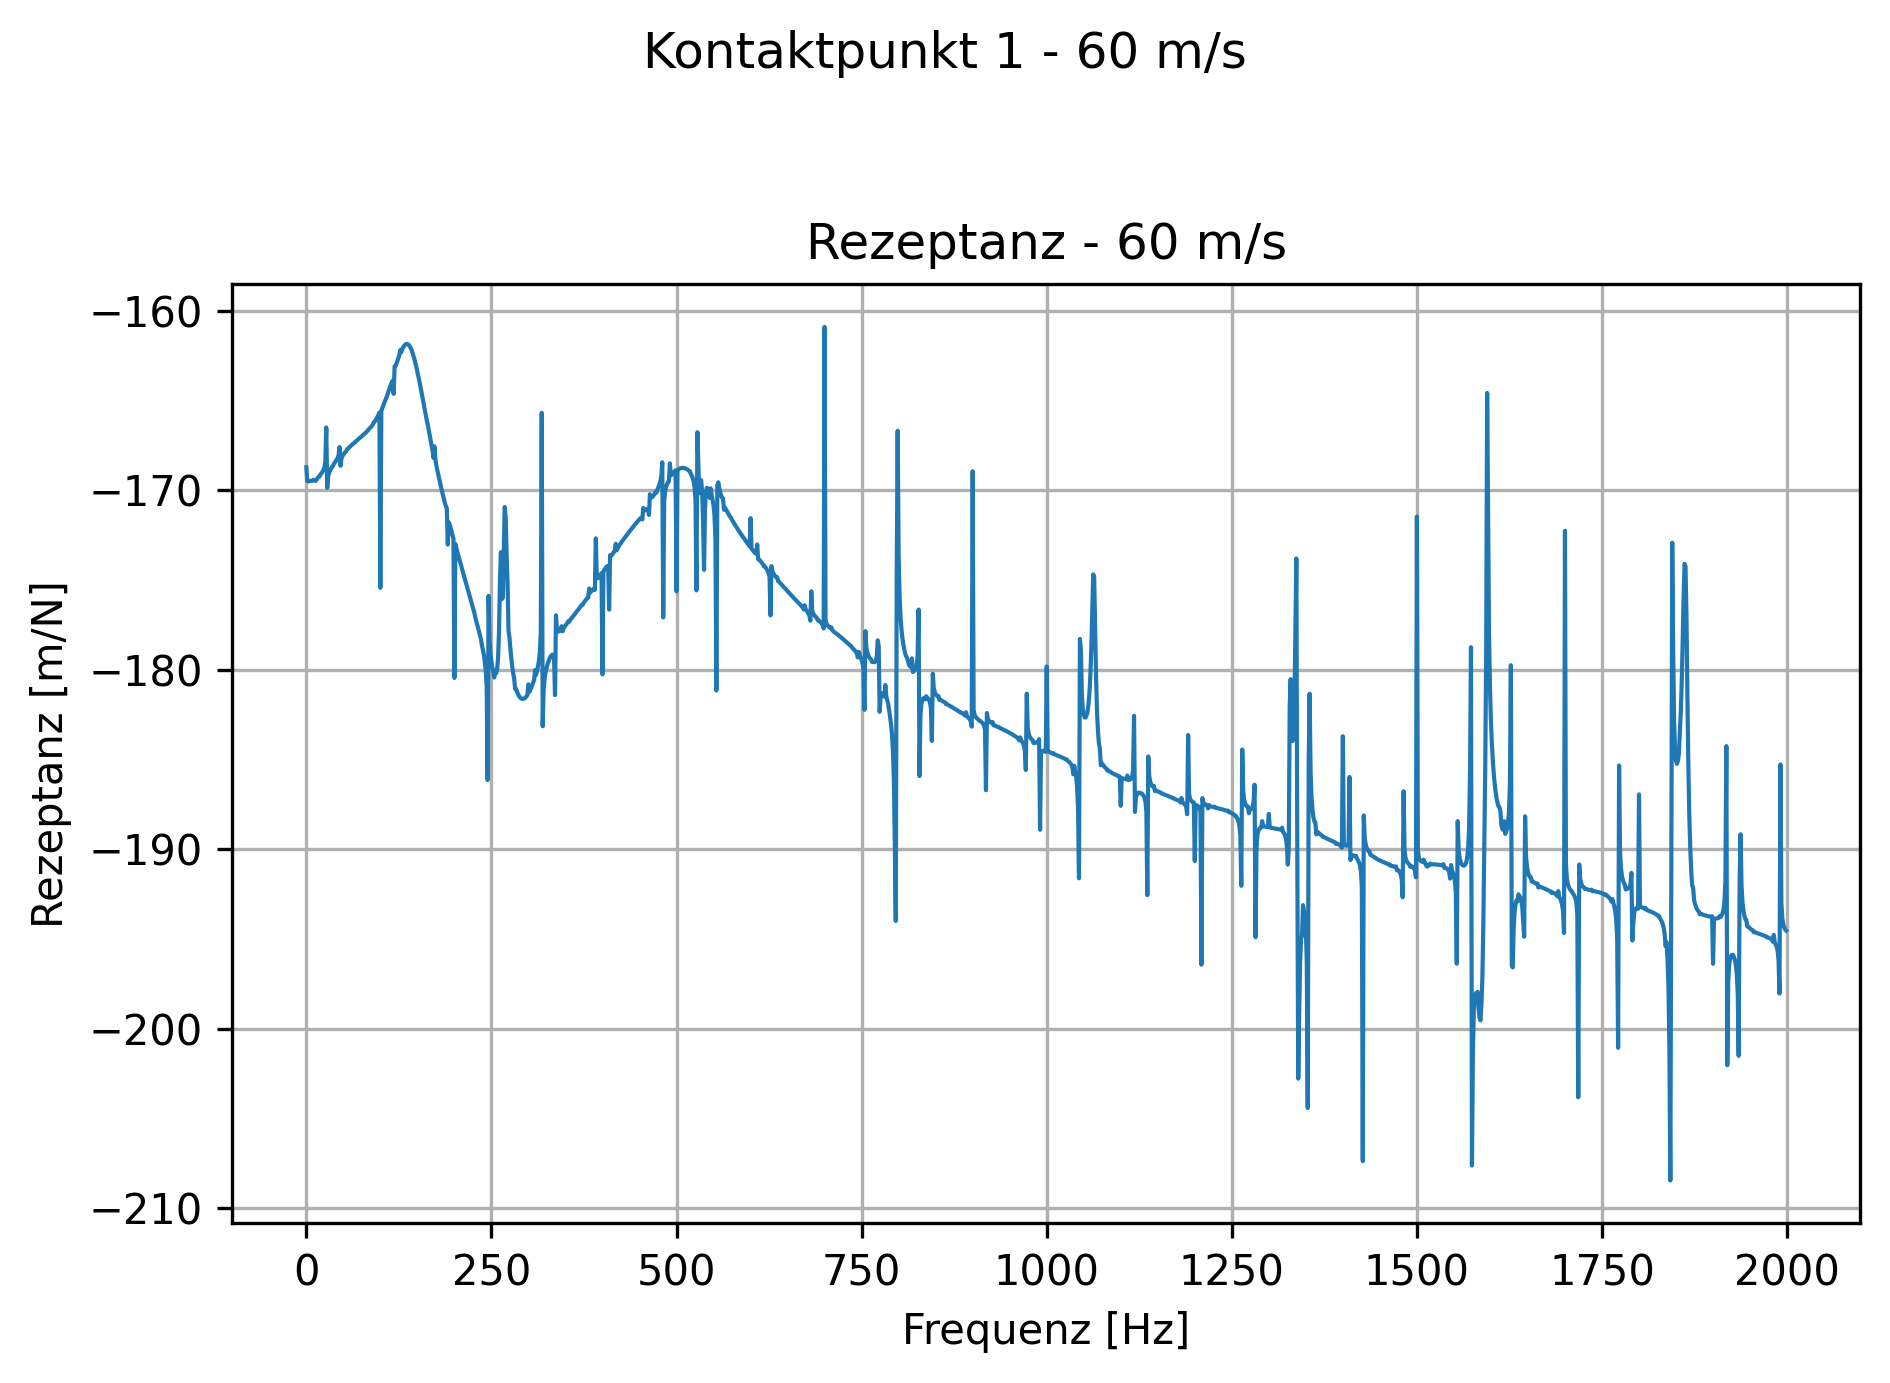
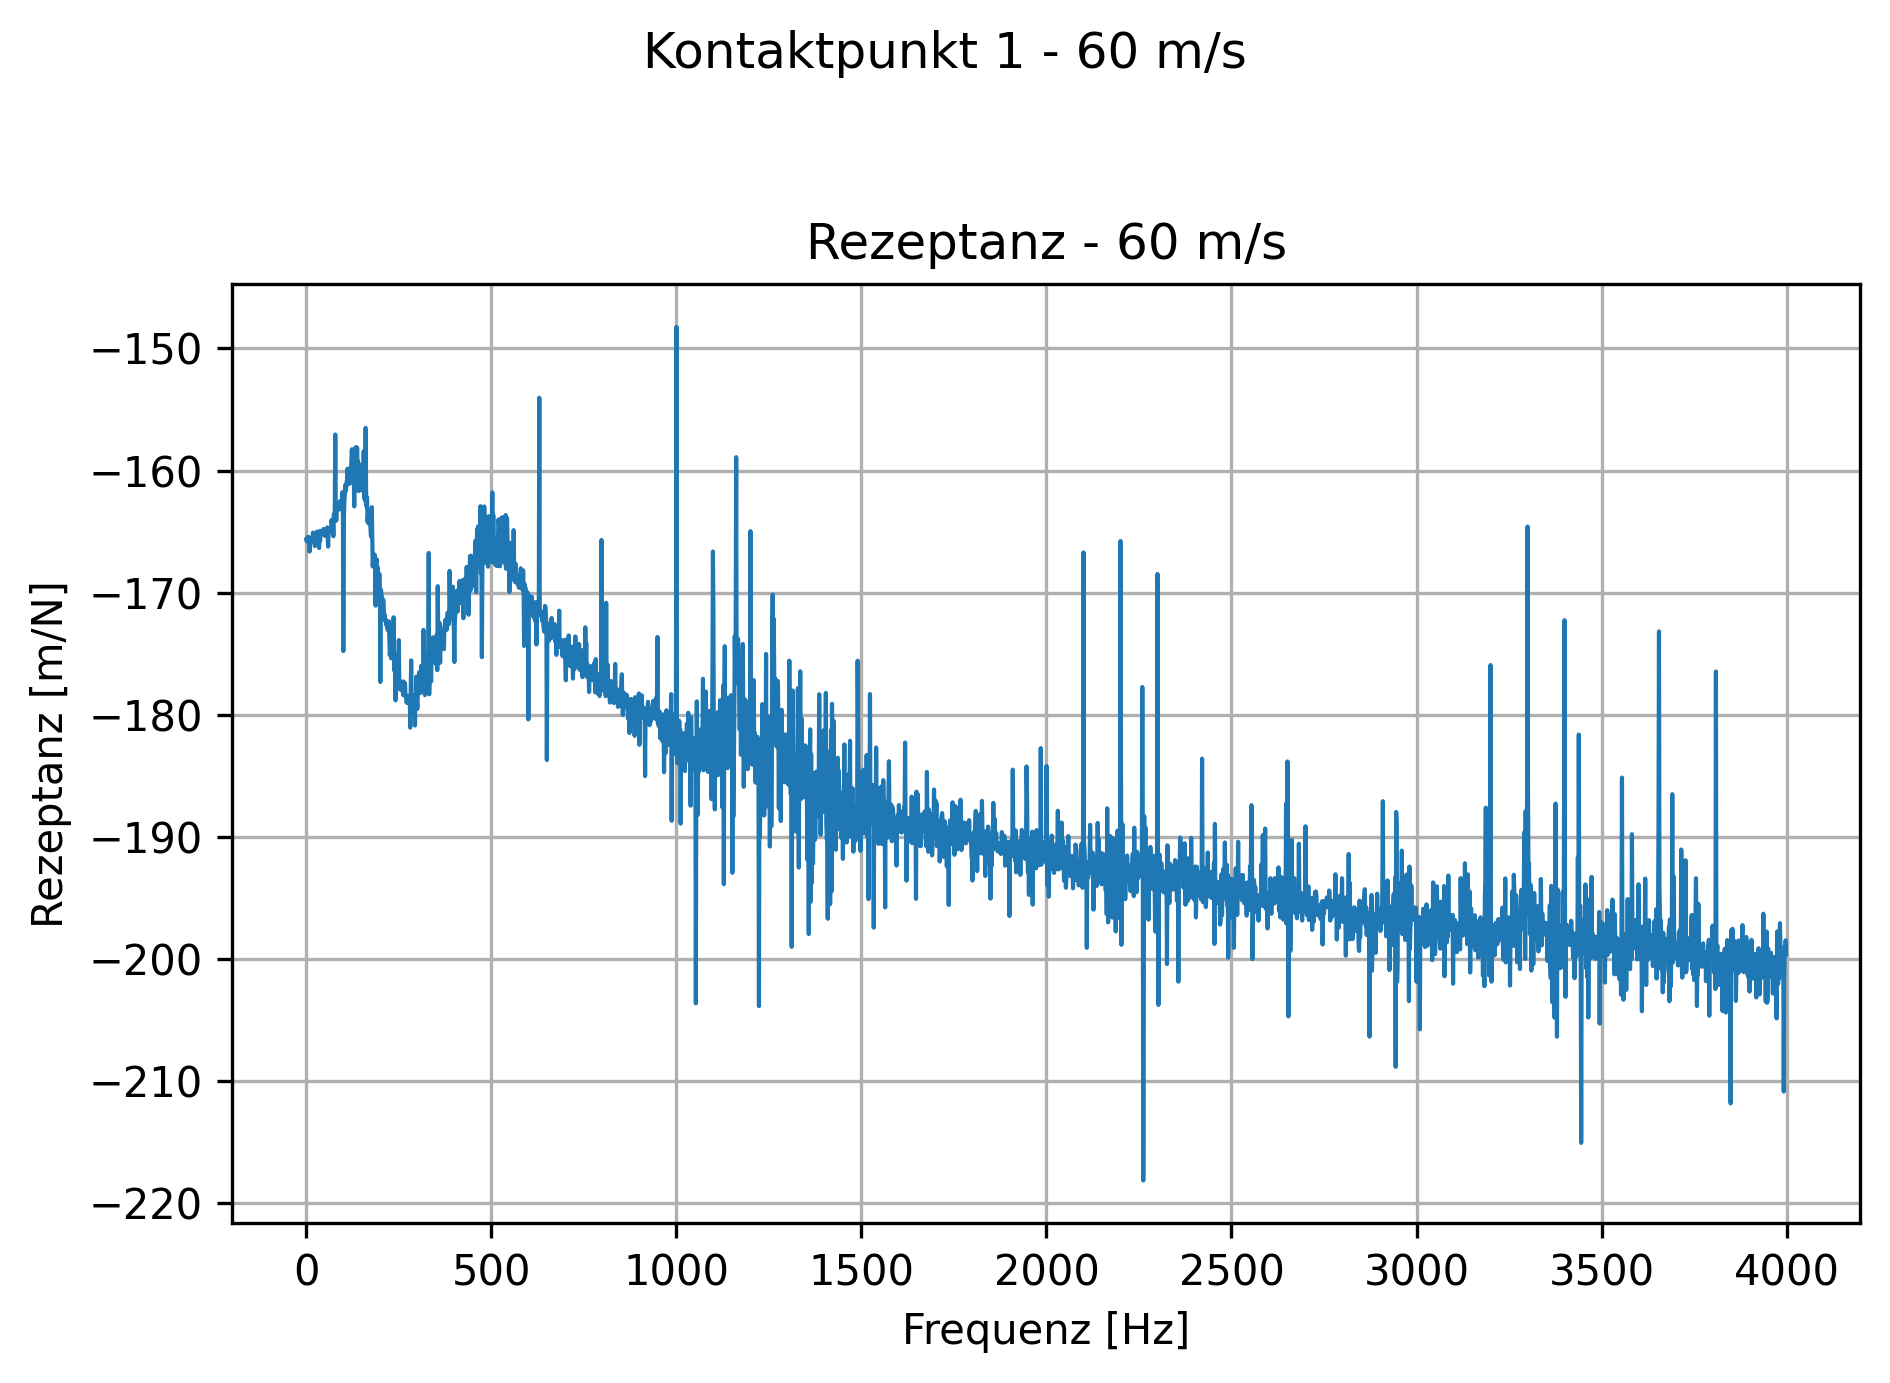
fixed bug where interpolation would produce huge results implemented simple random roughness --> PPF is visible!

diff --git a/Moving_Force.py b/Moving_Force.py
@@ -48,7 +48,7 @@ req_simt                  = 1      # Required simulation time [s]
 dt                        = 2.2e-5 # Time step [s]
 velocities                = [60]   # Velocities to simulate [m/s] NOTE: always give a list, even for a single velocity
 ramp_fraction             = 0.1    # Fraction of total time for ramp up (affects velocity and force)
-static_force              = 65000.0 # Force amplitude [N]
+static_force              = 65000.0 # Static force amplitude [N]
 
 # Output directory
 output_dir = Path('mobility_plots')
@@ -77,8 +77,8 @@ track = SimplePeriodicBallastedSingleRailTrack(
     num_mount   = num_mount,        # Number of discrete mounting positions
     distance    = distance          # Distance between sleepers [m]
 )
-ppf = math.pi/(2*distance**2) * math.sqrt(track.rail.E*track.rail.Iyr / track.rail.mr) # first pinned-pinned frequency	
-
+ppf = math.pi/(2*distance**2) * math.sqrt(track.rail.E*track.rail.Iyr / track.rail.mr) # first pinned-pinned frequency
+print(f"First pinned-pinned frequency: {ppf:.2f} Hz")
 
 # =============================================================================
 # 2. SIMULATION SETUP
@@ -148,6 +148,7 @@ t = np.linspace(0, req_simt, len(deflection_results.contact_point_deflection[0])
 
 # cut the ramp part from the results to avoid transient effects in the FFT
 cut_initial = 10000     # TODO: base this on ramp_fraction and total number of time steps
+freq_limit = 4000
 
 # FFT of force, cut ramp part
 force_fft = fft(deflection_results.force[cut_initial:])
@@ -165,7 +166,7 @@ for i, deflection in enumerate(deflection_results.contact_point_deflection):
     receptance = deflection_fft / force_fft             # [m/N]
 
     # Filter to 0-2000 Hz
-    mask = (freqs >= 0) & (freqs <= 2000)
+    mask = (freqs >= 0) & (freqs <= freq_limit)
 
     # plot individual velocity
     plt.plot(freqs[mask], 20*np.log10(np.abs(receptance[mask])), linewidth=1)
@@ -212,7 +213,7 @@ for i, deflection in enumerate(deflection_results.contact_point_deflection):
                 receptances.append(float(str.replace(row[1], ',', '.')))
 
         # Interpolate to equally spaced frequencies
-        freq_interp = np.linspace(0, 2000, 2000)
+        freq_interp = np.linspace(0, freq_limit, freq_limit)
         receptance_interp = np.interp(freq_interp, frequencies, receptances)
 
         plt.figure(figsize=(10, 5))
@@ -234,38 +235,38 @@ plt.close('all')
 
 
 
-# # =============================================================================
-# # 4.6 Plot deflection as individual frames
-# # =============================================================================
-# # Create output directory for frames
-# frames_dir = output_dir / 'frames'
+# =============================================================================
+# 4.6 Plot deflection as individual frames
+# =============================================================================
+# Create output directory for frames
+frames_dir = output_dir / 'frames'
 
-# # Clear the frames directory if it already exists
-# if frames_dir.exists():
-#     for file in frames_dir.glob('*'):
-#         file.unlink()  # Delete each file in the directory
-# else:
-#     frames_dir.mkdir(exist_ok=True)  # Create the directory if it doesn't exist
+# Clear the frames directory if it already exists
+if frames_dir.exists():
+    for file in frames_dir.glob('*'):
+        file.unlink()  # Delete each file in the directory
+else:
+    frames_dir.mkdir(exist_ok=True)  # Create the directory if it doesn't exist
 
-# # Extract deflection data
-# deflection = np.transpose(deflection_results.deflection)
-# deflection = deflection[:, :deflection.shape[1] // 2]  # Take only the rail deflection part
+# Extract deflection data
+deflection = np.transpose(deflection_results.deflection)
+deflection = deflection[:, :deflection.shape[1] // 2]  # Take only the rail deflection part
 
-# # Loop through each time step and save a frame as a PNG
-# for t_idx in range(deflection.shape[0]): # loop through time steps
-#     if (t_idx-4545)//40 == 0 or t_idx%200 == 0:  # Save every 20th frame to reduce number of images
-#         plt.figure(figsize=(10, 5))
-#         plt.plot(deflection[t_idx, :], lw=2, label='Deflection')
-#         plt.xlim(0, deflection.shape[1])  # Set x-axis limits to the number of discrete points
-#         plt.ylim(np.max(deflection), np.min(deflection))
-#         plt.xlabel('Position along the rail')
-#         plt.ylabel('Deflection [m]')
-#         plt.title(f'Rail Deflection - Time Step {t_idx}')
-#         plt.grid(True)
-#         plt.legend()  # Add legend to show labels
-#         plt.tight_layout()
-#         plt.savefig(frames_dir / f'frame_{t_idx:04d}.png', dpi=300, bbox_inches='tight')
-#         plt.close()
+# Loop through each time step and save a frame as a PNG
+for t_idx in range(deflection.shape[0]): # loop through time steps
+    if (t_idx-4545)//40 == 0 or t_idx%200 == 0:  # Save every 20th frame to reduce number of images
+        plt.figure(figsize=(10, 5))
+        plt.plot(deflection[t_idx, :], lw=2, label='Deflection')
+        plt.xlim(0, deflection.shape[1])  # Set x-axis limits to the number of discrete points
+        plt.ylim(np.max(deflection), np.min(deflection))
+        plt.xlabel('Position along the rail')
+        plt.ylabel('Deflection [m]')
+        plt.title(f'Rail Deflection - Time Step {t_idx}')
+        plt.grid(True)
+        plt.legend()  # Add legend to show labels
+        plt.tight_layout()
+        plt.savefig(frames_dir / f'frame_{t_idx:04d}.png', dpi=300, bbox_inches='tight')
+        plt.close()
 
 
 # # 4.1 Plot deflection over time

diff --git a/rolland/deflection.py b/rolland/deflection.py
@@ -141,7 +141,7 @@ class DeflectionEBBVertic(Deflection):
         upper_idx       = int(np.ceil(position))
         lower_idx       = int(np.floor(position))
         upper_weight    = position - lower_idx
-        lower_weight    = upper_idx - position
+        lower_weight    = 1 - upper_weight
         result          = lower_weight*values[lower_idx] + upper_weight*values[upper_idx]
         return result
 
@@ -192,6 +192,28 @@ class DeflectionEBBVertic(Deflection):
                 static_force = self.excit.force_amplitude  # Static force at t=0, can be adjusted if needed
                 delta_0 = C*static_force**(2/3)  # Initial guess for penetration based on static force, can be adjusted if needed
 
+                n = self.discr.nx
+                dx = self.discr.dx
+
+                k = np.fft.fftfreq(n, dx)
+
+                PSD = 1/(1+(k/50)**2)   # simple k^2 PSD
+
+                phase = np.exp(1j*2*np.pi*np.random.rand(n))
+
+                roughness_fft = np.sqrt(PSD)*phase
+
+                r = np.real(np.fft.ifft(roughness_fft))
+
+                r *= 5e-6/np.std(r)   # RMS ~5 µm
+
+
+                # self.excit.roughness = list(r)
+
+
+                self.excit.roughness = list(8e-6 * np.random.randn(n))   # TODO: move roughness generation to excitation class and make it more realistic (e.g., using a power spectral density)
+
+
 
                 for i in range(max_iter):
                     # TODO: function for interpolation --> handle on point
@@ -206,7 +228,7 @@ class DeflectionEBBVertic(Deflection):
                     # Calculate geometric penetration
                     # TODO: get this right, check directions of deflection and roughness, and add wheel deflection
                     # y_r: rail deflection, positive if rail moves downwards
-                    delta_lin = self.y_static - y_r # NOTE: are the directions of y_r & y_s correct?
+                    delta_lin = self.y_static - y_r + y_s
                     delta_lin += delta_0
 
                     if delta_lin <= 0: # NOTE: should we check before adding delta_0?
@@ -324,8 +346,8 @@ class DeflectionEBBVertic(Deflection):
         #         plt.savefig(frames_dir / f'frame_{step:04d}.png', dpi=300, bbox_inches='tight')
         #         plt.close()
 
-        nx = self.discr.nx
-        self.excit.roughness = list(np.fft.ifft(np.fft.fft(np.random.randn(nx))/np.maximum(1,np.arange(nx))).real * 2e-6)
+        # nx = self.discr.nx
+        # self.excit.roughness = list(np.fft.ifft(np.fft.fft(np.random.randn(nx))/np.maximum(1,np.arange(nx))).real * 2e-6)
 
         for i in range(len(self.excitation_indices)):
             # Store initial deflection at contact points (should be zero at t=0)

diff --git a/rolland/database/rail/db_rail.py b/rolland/database/rail/db_rail.py
@@ -38,7 +38,7 @@ def load_rail_geo(file_path):
 
 NORDBORG = Rail(
     rl_geo=load_rail_geo(os.path.join(os.path.dirname(__file__), 'UIC60.csv')),
-    E=840e9,
+    E=2.1e11,
     mr=60,
     etar=0.004,
     Iyr=22.5e-6,
